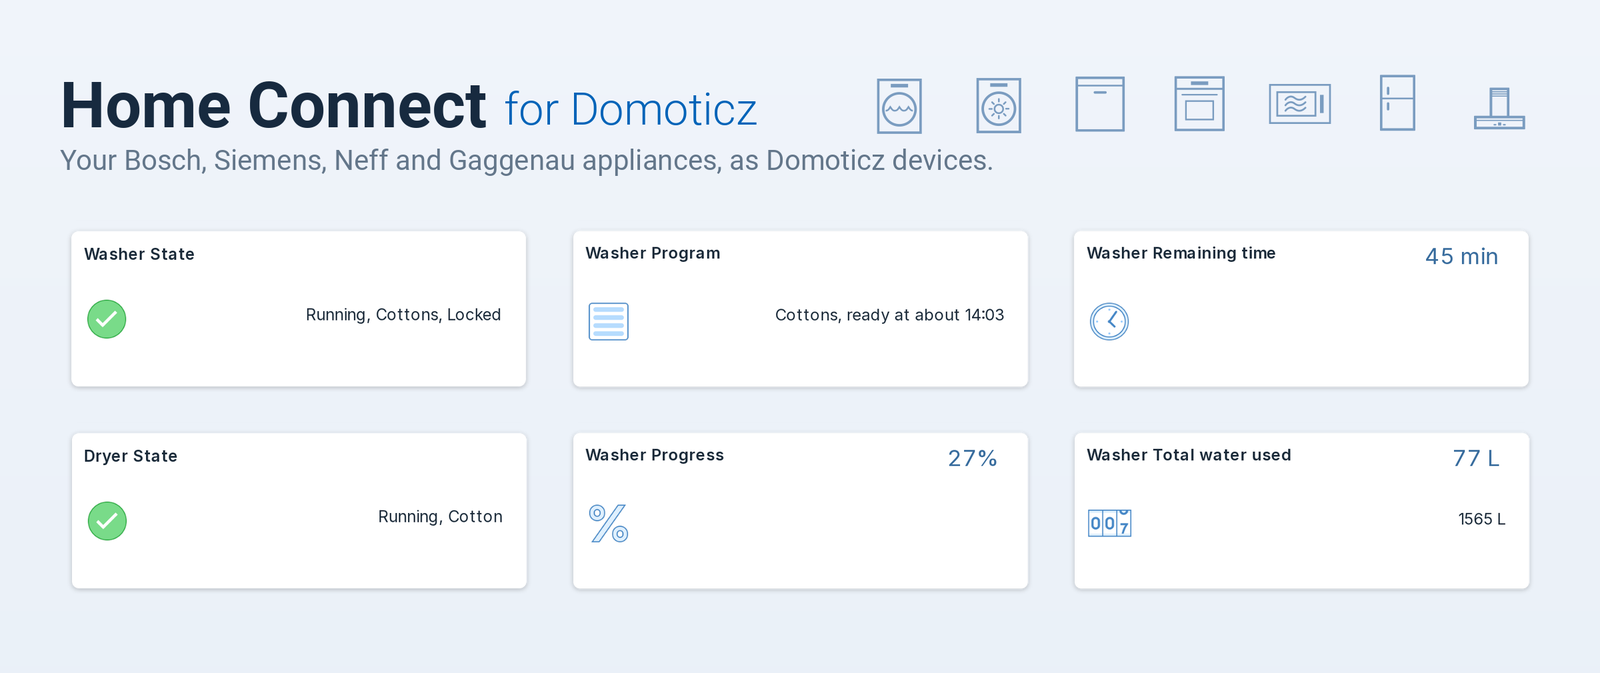
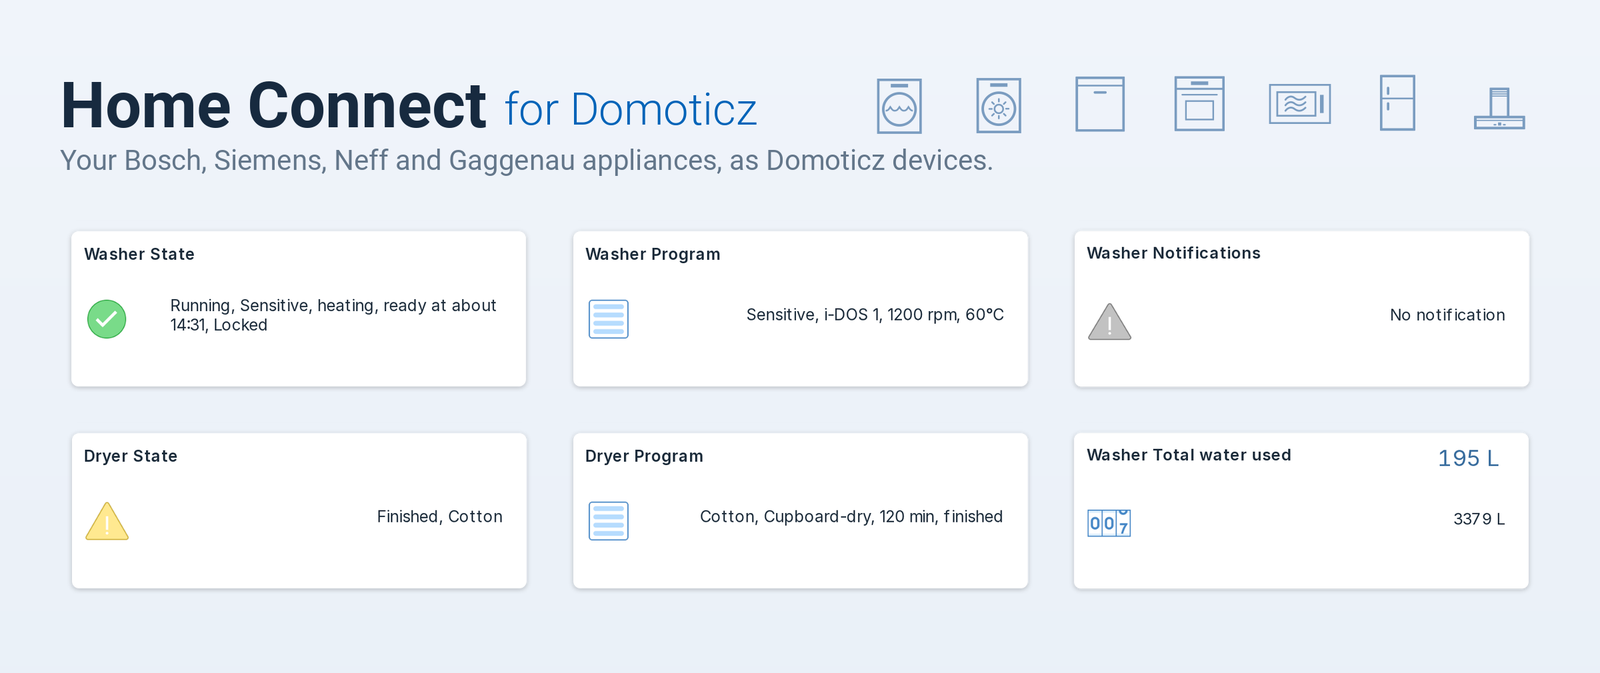
docs: new screenshots for the current card layout
The hero, the social preview and the Devices page screenshot show the
cards an appliance has now: a running washer's State (with phase and
ready time), Program and Notifications, its meters, and the dryer
beside it. The captions follow. The FAQ's wrinkle guard answer now
says that Progress and Remaining time are separate devices from State.

diff --git a/tools/banner/hero.py b/tools/banner/hero.py
@@ -29,9 +29,9 @@ FONTS = Path(os.environ.get("ROBOTO_DIR", Path.home() / ".local/share/fonts/Robo
 TITLE, SUBTITLE = "Home Connect", "for Domoticz"
 TAGLINE = "Your Bosch, Siemens, Neff and Gaggenau appliances, as Domoticz devices."
 # Card files (device idx on the capture instance) in reading order: a running washer, its program
-# and remaining time, the dryer next to it, and the lifetime water meter. Not the energy meter:
-# its headline is a live power the washer never reports, so it reads 0 Watt.
-GRID = [["252", "299", "298"], ["246", "297", "339"]]
+# and notifications, the dryer next to it with its program, and the washer's lifetime water meter.
+# Not the energy meter: its headline is a live power the washer never reports, so it reads 0 Watt.
+GRID = [["253", "291", "338"], ["248", "293", "343"]]
 APPLIANCES = ["washer", "dryer", "dishwasher", "oven", "microwave", "fridge-freezer", "hood"]
 
 INK, MUTED, ACCENT = (23, 42, 63), (99, 118, 138), (0, 99, 184)

diff --git a/README.md b/README.md
@@ -1,6 +1,6 @@
 # Home Connect for Domoticz
 
-![Home Connect for Domoticz: a running washer and dryer as Domoticz devices](https://raw.githubusercontent.com/Rouzax/home-connect-domoticz-plugin/main/docs/assets/hero.png)
+![Home Connect for Domoticz: a running washer and a dryer that has just finished, as Domoticz devices](https://raw.githubusercontent.com/Rouzax/home-connect-domoticz-plugin/main/docs/assets/hero.png)
 
 Your Bosch, Siemens, Neff and Gaggenau appliances from the Home Connect cloud in Domoticz:
 state, program, remaining time, settings, messages and, if you allow it, control.

diff --git a/docs/faq.md b/docs/faq.md
@@ -93,7 +93,7 @@ The Notifications card appears only once the appliance has sent a message that n
 
 With wrinkle guard (anti-crease) set, the dryer keeps turning the drum now and then after drying,
 for the time you set. Home Connect reports that as Running until the wrinkle guard ends, so State
-shows Running, Progress 100% and Remaining time 1 min all that time, and the Status code
+shows Running, Progress stays at 100% and Remaining time at 1 min all that time, and the Status code
 stays at 40 (Running).
 
 Two devices tell the moments apart:

diff --git a/docs/devices.md b/docs/devices.md
@@ -10,7 +10,7 @@ shows, in the device language.
 
 ## The devices every appliance gets
 
-![A washing machine's devices while a program runs: State, Remote control, the Program finished alert, Progress, Remaining time, Program and two of its meters](assets/washer-cards.png)
+![A washing machine's cards while a program runs: State, Notifications, Program and three of its meters](assets/washer-cards.png)
 
 !!! tip "Which theme is this?"
     The screenshots show the [Machinon](https://domoticz.github.io/Machinon/docs/) theme for

diff --git a/docs/index.md b/docs/index.md
@@ -1,6 +1,6 @@
 # Home Connect for Domoticz
 
-![A running washer and dryer as Domoticz devices](assets/hero.png)
+![A running washer and a dryer that has just finished, as Domoticz devices](assets/hero.png)
 
 Bring your Bosch, Siemens, Neff and Gaggenau appliances into Domoticz. The plugin connects to
 the Home Connect cloud, the same service the Home Connect app uses, and keeps a device in
